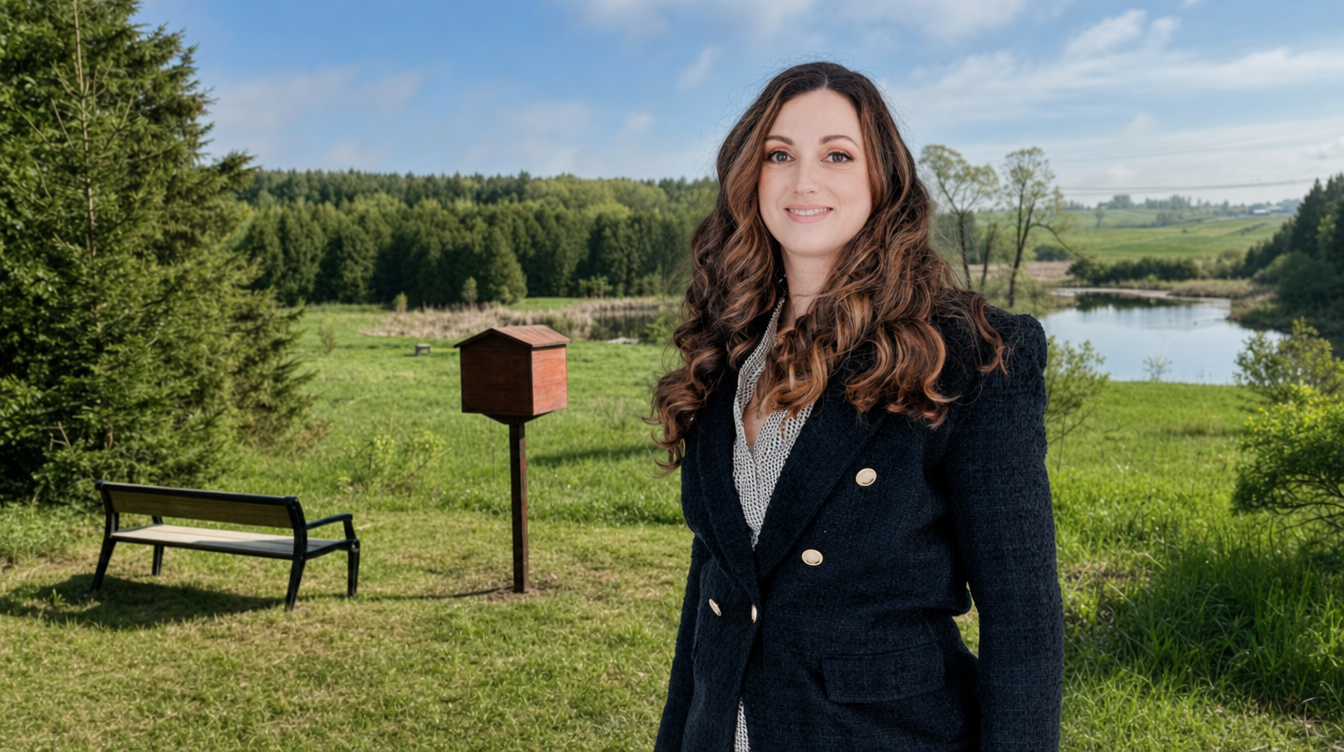
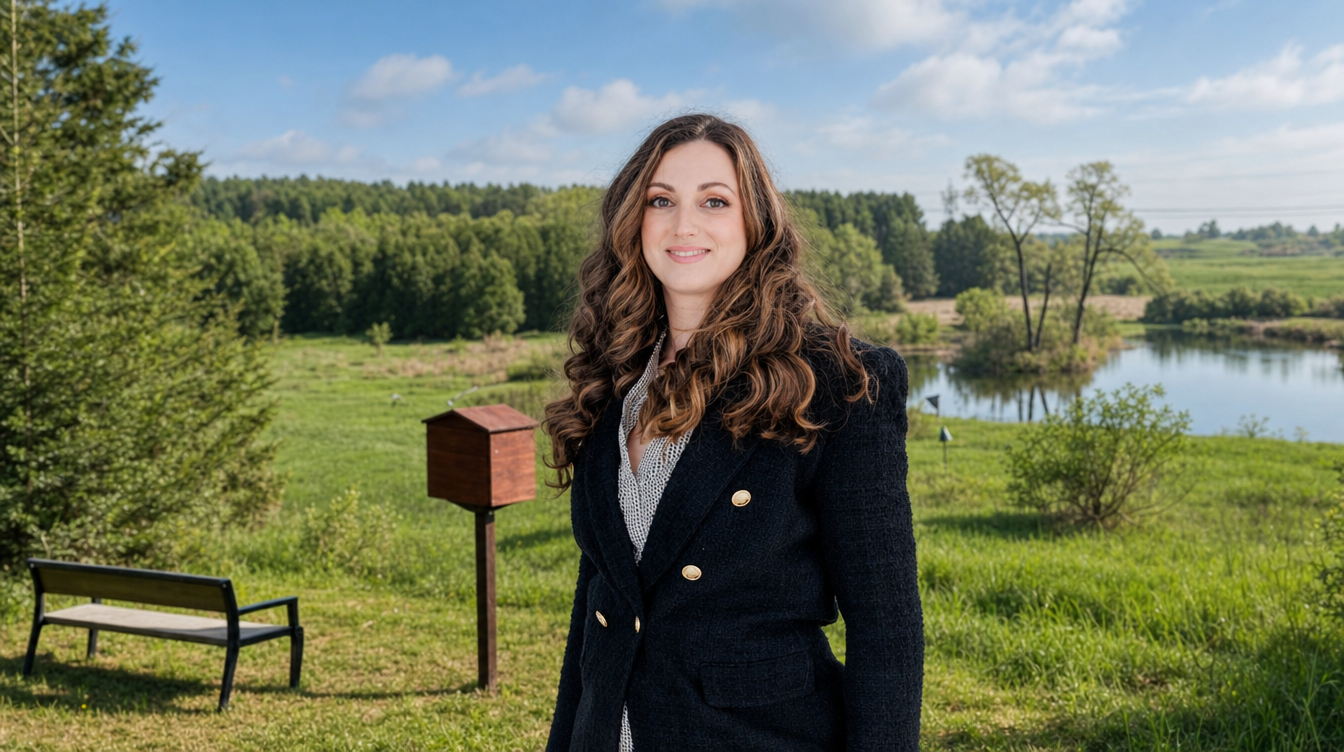
Redesign hero layout around Dorit photos

diff --git a/src/styles.css b/src/styles.css
@@ -349,7 +349,7 @@ a { color: inherit; }
 .hero {
   position: relative;
   min-height: 100vh;
-  background: url("/images/hero-desktop.png") center 30% / cover no-repeat;
+  background: url("/images/hero-desktop.png") 78% 32% / cover no-repeat;
   padding-top: 120px;
   padding-bottom: var(--sp-8);
   display: flex;
@@ -360,7 +360,8 @@ a { color: inherit; }
   position: absolute;
   inset: 0;
   background:
-    linear-gradient(180deg, rgba(26,26,26,0.35) 0%, rgba(26,26,26,0.05) 30%, rgba(26,26,26,0.55) 100%);
+    linear-gradient(90deg, rgba(245, 239, 228, 0.02) 0%, rgba(245, 239, 228, 0.02) 48%, rgba(245, 239, 228, 0.24) 60%, rgba(245, 239, 228, 0.78) 100%),
+    linear-gradient(180deg, rgba(26, 26, 26, 0.08) 0%, rgba(26, 26, 26, 0.02) 35%, rgba(26, 26, 26, 0.2) 100%);
   pointer-events: none;
 }
 .hero__inner {
@@ -370,32 +371,43 @@ a { color: inherit; }
   margin: 0 auto;
   padding: 0 var(--container-pad);
   width: 100%;
-  display: grid;
-  grid-template-columns: 1fr 1fr;
-  gap: var(--sp-7);
-  align-items: end;
+  display: flex;
+  justify-content: flex-end;
 }
-.hero__copy { display: flex; flex-direction: column; gap: var(--sp-3); }
+.hero__content {
+  width: min(100%, 520px);
+  display: flex;
+  flex-direction: column;
+  gap: var(--sp-5);
+  align-items: flex-start;
+}
+.hero__copy {
+  display: flex;
+  flex-direction: column;
+  gap: var(--sp-3);
+  align-items: flex-start;
+}
 .hero__eyebrow {
-  color: var(--c-turquoise);
+  color: var(--c-turquoise-deep);
   font-size: 18px;
   margin: 0;
+  text-shadow: 0 1px 0 rgba(255, 255, 255, 0.75);
 }
 .hero__headline {
   font-family: var(--font-display);
   font-weight: 400;
-  font-size: var(--fs-mega);
-  line-height: 0.92;
+  font-size: clamp(68px, 9vw, 116px);
+  line-height: 0.9;
   letter-spacing: var(--ls-mega);
   text-transform: uppercase;
   color: var(--c-ink);
   margin: 0;
   text-shadow:
-    2px 0 0 #fff, -2px 0 0 #fff,
-    0 2px 0 #fff, 0 -2px 0 #fff,
-    2px 2px 0 #fff, -2px -2px 0 #fff,
-    2px -2px 0 #fff, -2px 2px 0 #fff,
-    6px 6px 0 var(--c-cream-deep);
+    2px 0 0 rgba(255, 255, 255, 0.9), -2px 0 0 rgba(255, 255, 255, 0.9),
+    0 2px 0 rgba(255, 255, 255, 0.9), 0 -2px 0 rgba(255, 255, 255, 0.9),
+    2px 2px 0 rgba(255, 255, 255, 0.9), -2px -2px 0 rgba(255, 255, 255, 0.9),
+    2px -2px 0 rgba(255, 255, 255, 0.9), -2px 2px 0 rgba(255, 255, 255, 0.9),
+    4px 4px 0 rgba(0, 0, 0, 0.08);
   position: relative;
   display: inline-block;
 }
@@ -409,12 +421,12 @@ a { color: inherit; }
 }
 .hero__subtitle {
   font-family: var(--font-body);
-  font-size: 20px;
+  font-size: clamp(20px, 2vw, 28px);
   line-height: var(--lh-snug);
-  color: var(--c-cream);
+  color: var(--c-ink);
   font-weight: 500;
-  margin: var(--sp-3) 0 0;
-  text-shadow: 0 1px 4px rgba(0, 0, 0, 0.4);
+  margin: var(--sp-2) 0 0;
+  max-width: 18ch;
 }
 .hero__mobile-ctas {
   display: none;
@@ -422,11 +434,12 @@ a { color: inherit; }
   margin-top: var(--sp-5);
 }
 .hero__form {
-  background: var(--c-cream);
+  background: rgba(245, 239, 228, 0.96);
   border-radius: var(--radius-lg);
   padding: var(--sp-6);
   box-shadow: var(--shadow-lg);
-  align-self: end;
+  width: 100%;
+  max-width: 600px;
 }
 .hero__scroll {
   position: absolute;
@@ -934,24 +947,53 @@ a { color: inherit; }
   .mobile-menu { display: flex; }
 
   .hero {
-    min-height: 92vh;
-    padding-top: 100px;
-    padding-bottom: var(--sp-8);
-    background-image: url("/images/hero-mobile.png");
-    background-position: center 25%;
+    min-height: auto;
+    padding-top: 84px;
+    padding-bottom: 0;
+    background:
+      linear-gradient(180deg, rgba(245, 239, 228, 0.95) 0%, rgba(245, 239, 228, 0.95) 49%, rgba(245, 239, 228, 0) 49%, rgba(245, 239, 228, 0) 100%),
+      url("/images/hero-mobile.png") center bottom / cover no-repeat;
   }
+  .hero__scrim { display: none; }
   .hero__inner {
-    grid-template-columns: 1fr;
-    align-items: center;
-    text-align: left;
+    display: block;
+    padding: 0;
   }
-  .hero__form { display: none; }
-  .hero__mobile-ctas { display: flex; flex-wrap: wrap; }
+  .hero__content {
+    width: 100%;
+    gap: var(--sp-4);
+  }
+  .hero__copy {
+    padding: 0 var(--container-pad);
+  }
+  .hero__form {
+    display: block;
+    margin: 0 var(--container-pad);
+    width: auto;
+    max-width: none;
+    padding: var(--sp-5);
+  }
+  .hero__mobile-ctas {
+    display: flex;
+    width: 100%;
+    flex-wrap: wrap;
+  }
+  .hero__mobile-ctas .btn {
+    flex: 1 1 140px;
+  }
   .hero__scroll { display: flex; }
-  .hero__subtitle { font-size: 17px; max-width: 28ch; }
+  .hero__headline {
+    font-size: clamp(64px, 18vw, 92px);
+    line-height: 0.92;
+    max-width: 5ch;
+  }
+  .hero__subtitle {
+    font-size: 17px;
+    max-width: 18ch;
+  }
   .hero__underline { width: 120px; height: 5px; }
 
-  .mobile-join { display: block; }
+  .mobile-join { display: none; }
 
   .pillars { grid-template-columns: 1fr; }
   .pillars > :nth-child(3) { grid-column: span 1; }

diff --git a/src/routes/index.tsx b/src/routes/index.tsx
@@ -58,28 +58,30 @@ function HomePage() {
         <section className="hero">
           <div className="hero__scrim" aria-hidden="true" />
           <div className="hero__inner">
-            <div className="hero__copy">
-              <p className="t-eyebrow hero__eyebrow">Make Our Schools Work For</p>
-              <h1 className="hero__headline">
-                Our Kids
-                <span className="hero__underline" aria-hidden="true" />
-              </h1>
-              <p className="hero__subtitle">
-                A fresh voice for King and Vaughan Ward 1 families.
-              </p>
+            <div className="hero__content">
+              <div className="hero__copy">
+                <p className="t-eyebrow hero__eyebrow">Make Our Schools Work For</p>
+                <h1 className="hero__headline">
+                  Our Kids
+                  <span className="hero__underline" aria-hidden="true" />
+                </h1>
+                <p className="hero__subtitle">
+                  A fresh voice for King and Vaughan Ward 1 families.
+                </p>
 
-              <div className="hero__mobile-ctas">
-                <Link to="/get-involved" className="btn btn--turquoise btn--lg">
-                  Volunteer
-                </Link>
-                <Link to="/get-involved" className="btn btn--mustard btn--lg">
-                  Donate
-                </Link>
+                <div className="hero__mobile-ctas">
+                  <Link to="/get-involved" className="btn btn--turquoise btn--lg">
+                    Volunteer
+                  </Link>
+                  <Link to="/get-involved" className="btn btn--mustard btn--lg">
+                    Donate
+                  </Link>
+                </div>
               </div>
-            </div>
 
-            <div className="hero__form">
-              <JoinForm id="hero-join" />
+              <div className="hero__form">
+                <JoinForm id="hero-join" />
+              </div>
             </div>
           </div>
 
